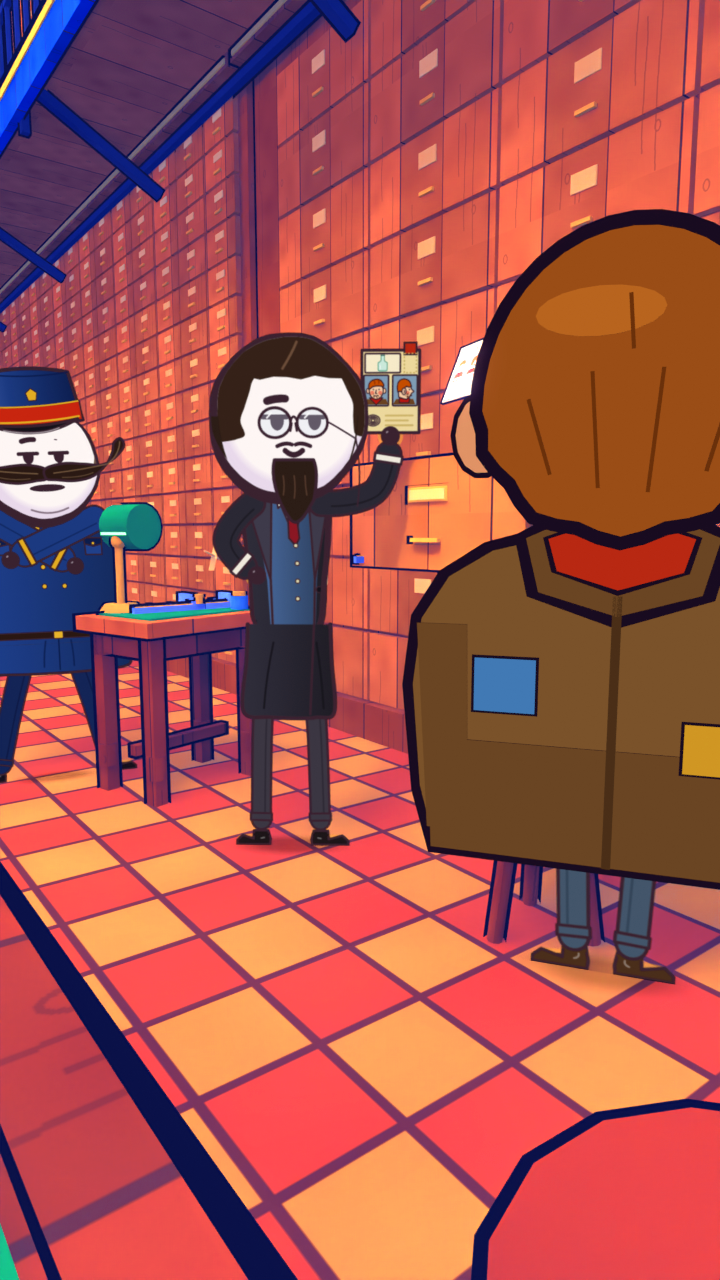
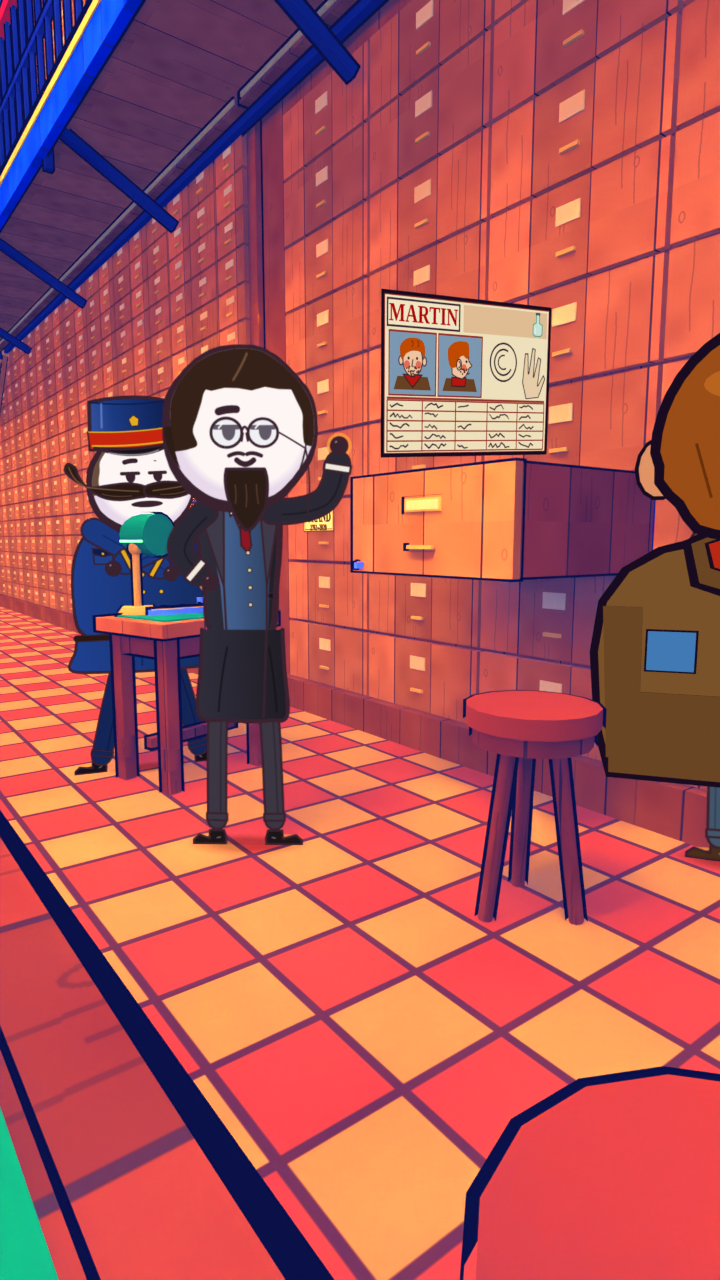
film17 v2 T6b: 6c/6d/P2 re-staging (readable MARTIN card, bottle, clear faces), key stills g1600/1606/1640/1685
Claude-Session: https://claude.ai/code/session_017iwyCu2DCAGX5bV8K2JYSR

diff --git a/film/v3/film17v2/T6b/t6b_stage.py b/film/v3/film17v2/T6b/t6b_stage.py
@@ -5,6 +5,7 @@ import math, sys, os
 import bpy
 from mathutils import Vector
 HERE = os.path.dirname(os.path.abspath(__file__)); sys.path.insert(0, os.path.join(HERE, '..', '..', 'set3d17'))
+for _p in ('stage', 'cast17'): sys.path.insert(0, os.path.join(HERE, '..', '..', _p))
 import prefecture17 as P
 
 INK = '#1a1020'
@@ -58,3 +59,151 @@ def _patched(a, c, cam):
     if c['name'] == 'dupont': return dupont_back(a, c, cam)
     return _orig(a, c, cam)
 P._back_cover = _patched
+
+def clear_cast():
+    """remove last frame's cast cards, back covers and T6b props (multi-frame loops in one process)"""
+    import actors
+    for a in list(actors.REGISTRY):
+        try:
+            for ch in list(a.root.children_recursive): bpy.data.objects.remove(ch, do_unlink=True)
+            bpy.data.objects.remove(a.root, do_unlink=True)
+        except Exception: pass
+    actors.clear_registry()
+    for o in [o for o in bpy.data.objects if o.name.startswith(('bk_', 'back_', 'cc_', 't6b_'))]: bpy.data.objects.remove(o, do_unlink=True)
+
+
+# ======================================================= 6c / 6d / P2 re-staging (director note: card reads, nothing crosses faces)
+from PIL import Image, ImageDraw, ImageFilter
+import cast17, numpy as np
+TEXD = os.path.join(HERE, 'tex'); os.makedirs(TEXD, exist_ok=True)
+# custom story poses: Bertillon holds NO sprite card (the 3D MARTIN card is held at his raised hand); the gendarme holds the empty bottle
+_b = dict(cast17.STORY17['bertillon_holding_card'][1]); _b.pop('prop_r', None); cast17.STORY17['bertillon_card_up'] = ('bertillon', _b)
+_g = dict(cast17.STORY17['gendarme_standing_a'][1]); _g.update(expr='determined', arm_r=dict(hand=(0.78, 0.30), bend=-0.5, stretch=1.1, layer='front'), arm_l='behind'); cast17.STORY17['gendarme_bottle_a'] = ('gendarme_a', _g)
+_g2 = dict(cast17.STORY17['gendarme_standing_b'][1]); _g2.update(expr='determined', arm_r=dict(hand=(0.78, 0.30), bend=-0.5, stretch=1.1, layer='front'), arm_l='behind'); cast17.STORY17['gendarme_bottle_b'] = ('gendarme_b', _g2)
+
+def _tex_front():
+    p = os.path.join(TEXD, 'martin_front.png')
+    if not os.path.exists(p):
+        im = Image.open(P.tex_hero_v2()).convert('RGB').transpose(Image.FLIP_LEFT_RIGHT)       # un-mirror (stored mirrored for card_plane)
+        d = ImageDraw.Draw(im); d.rectangle([0, 0, im.size[0] - 1, im.size[1] - 1], outline=(26, 16, 32), width=12); im.save(p)
+    return p
+def _tex_back():
+    p = os.path.join(TEXD, 'martin_back.png')
+    if not os.path.exists(p):
+        W, H = 768, 512; im = Image.new('RGB', (W, H), (232, 214, 170)); d = ImageDraw.Draw(im)
+        d.rectangle([0, 0, W - 1, H - 1], outline=(26, 16, 32), width=12); d.rectangle([40, 40, W - 41, H - 41], outline=(150, 120, 86), width=4)
+        for y in range(120, H - 80, 46): d.line([70, y, W - 70, y], fill=(190, 168, 126), width=3)
+        d.rectangle([W - 150, 0, W - 60, 46], fill=(176, 140, 96), outline=(26, 16, 32), width=6); im.save(p)       # the tab
+    return p
+def _tex_bottle():
+    p = os.path.join(TEXD, 'bottle.png')
+    if not os.path.exists(p):
+        W, H = 240, 640; im = Image.new('RGBA', (W, H), (0, 0, 0, 0)); d = ImageDraw.Draw(im); INKc = (26, 16, 32, 255)
+        body = [(50, 620), (50, 300), (80, 230), (96, 200), (96, 60), (144, 60), (144, 200), (160, 230), (190, 300), (190, 620)]
+        d.polygon(body, fill=(184, 222, 214, 255), outline=INKc); d.line(body + [body[0]], fill=INKc, width=10, joint='curve')
+        d.rectangle([90, 26, 150, 66], fill=(176, 120, 70, 255), outline=INKc, width=8)                                        # cork
+        d.polygon([(66, 590), (66, 320), (78, 300), (78, 590)], fill=(235, 250, 246, 255))                                    # highlight
+        d.polygon([(52, 560), (188, 560), (188, 618), (52, 618)], fill=(150, 196, 188, 255)); d.line([(50, 620), (190, 620)], fill=INKc, width=10)
+        im.save(p)
+    return p
+def _img_mat(name, path, backface_clear, alpha):
+    m = bpy.data.materials.new(name); m.use_nodes = True; nt = m.node_tree; nt.nodes.clear()
+    tx = nt.nodes.new('ShaderNodeTexImage'); tx.image = bpy.data.images.load(path, check_existing=True); tx.interpolation = 'Cubic'; tx.extension = 'CLIP'
+    em = nt.nodes.new('ShaderNodeEmission'); em.inputs[1].default_value = 0.95; nt.links.new(tx.outputs[0], em.inputs[0])
+    tr = nt.nodes.new('ShaderNodeBsdfTransparent'); mix = nt.nodes.new('ShaderNodeMixShader'); out = nt.nodes.new('ShaderNodeOutputMaterial')
+    fac = None
+    if backface_clear:
+        bf = nt.nodes.new('ShaderNodeNewGeometry'); fac = bf.outputs['Backfacing']
+    if alpha:
+        if fac is not None:
+            mx = nt.nodes.new('ShaderNodeMath'); mx.operation = 'MAXIMUM'; inv = nt.nodes.new('ShaderNodeMath'); inv.operation = 'SUBTRACT'; inv.inputs[0].default_value = 1.0
+            nt.links.new(tx.outputs[1], inv.inputs[1]); nt.links.new(inv.outputs[0], mx.inputs[0]); nt.links.new(fac, mx.inputs[1]); fac = mx.outputs[0]
+        else:
+            inv = nt.nodes.new('ShaderNodeMath'); inv.operation = 'SUBTRACT'; inv.inputs[0].default_value = 1.0; nt.links.new(tx.outputs[1], inv.inputs[1]); fac = inv.outputs[0]
+    if fac is not None: nt.links.new(fac, mix.inputs[0])
+    nt.links.new(em.outputs[0], mix.inputs[1]); nt.links.new(tr.outputs[0], mix.inputs[2]); nt.links.new(mix.outputs[0], out.inputs[0]); return m
+def _quad(name, c, ax, ay, hw, hh, mat, flipv=False):
+    V = [tuple(c - ax * hw - ay * hh), tuple(c + ax * hw - ay * hh), tuple(c + ax * hw + ay * hh), tuple(c - ax * hw + ay * hh)]
+    me = bpy.data.meshes.new(name); me.from_pydata(V, [], [(0, 1, 2, 3)]); me.update(); uv = me.uv_layers.new(name='UV')
+    for k, (u, v) in zip(range(4), ((0, 0), (1, 0), (1, 1), (0, 1))): uv.data[k].uv = (u, v)
+    me.materials.append(mat); ob = bpy.data.objects.new(name, me); bpy.context.scene.collection.objects.link(ob); ob.visible_shadow = False; return ob
+def _ss(u): u = max(0.0, min(1.0, u)); return u * u * (3 - 2 * u)
+
+def card_turn_angle(g):
+    """0 = the blank back faces the camera, 180 = MARTIN faces it. The turn runs g1594-1602 (edge-on at g1598, MARTIN almost face-on at the word, g1601; face-on from g1602)."""
+    return 180.0 * _ss((g - 1594) / 8.0)
+def head_frame(a, cam):
+    import actors
+    L2W = lambda xy: Vector(actors.local_to_world(a, xy, camera=cam)); o = L2W((0.0, 0.0)); return o, L2W((1.0, 0.0)) - o, L2W((0.0, 1.0)) - o
+def martin_card(a, g, cam, width_D=1.45, ctr=(1.50, -0.34), back_off=0.0, t=0.25):
+    """the held MARTIN card: a screen-facing plane beside Bertillon's head (head-local units, 1 = head diameter), 4 cm BEHIND his card plane so his raised hand
+    stays in front. phi 0 = blank back toward the camera, 180 = MARTIN. Two coplanar quads, each hidden from behind (Backfacing)."""
+    o, ex, ey = head_frame(a, cam); n = (Vector(cam.location) - o).normalized(); dsx = ex.length; dsy = ey.length
+    right = Vector(cam.matrix_world.to_3x3() @ Vector((1, 0, 0))).normalized(); up = Vector((0, 0, 1))
+    D = dsx; c = o + right * (ctr[0] * D) + (-up) * (ctr[1] * D) - n * back_off; cl = Vector(cam.location); c = cl + (c - cl) * (1 - t); hw = (1 - t) * width_D * D / 2; hh = hw * 512 / 768   # t: toward the camera along the view ray (in front of the drawer box, same screen size)
+    phi = math.radians(card_turn_angle(g)); axp = right * math.cos(phi) + n * math.sin(phi)
+    cm = _img_mat('t6b_mback', _tex_back(), True, False); fm = _img_mat('t6b_mfront', _tex_front(), True, False)
+    n1 = axp.cross(up).normalized(); _quad('t6b_card_back', c, axp, up, hw, hh, cm); _quad('t6b_card_front', c - n1 * 0.004 * (1 - t) , -axp, up, hw, hh, fm)   # 4 mm apart: no z-fight between the two coplanar quads
+    return c, hw
+def bottle_prop(a, cam, ctr=(0.95, 0.10), h_D=1.15, back_off=0.04):
+    o, ex, ey = head_frame(a, cam); n = (Vector(cam.location) - o).normalized(); D = ex.length
+    right = Vector(cam.matrix_world.to_3x3() @ Vector((1, 0, 0))).normalized(); up = Vector((0, 0, 1))
+    c = o + right * (ctr[0] * D) + (-up) * (ctr[1] * D) - n * back_off; hh = h_D * D / 2; hw = hh * 240 / 640
+    _quad('t6b_bottle', c, right, up, hw, hh, _img_mat('t6b_mbottle', _tex_bottle(), False, True)); return c
+
+# per-frame offsets (world metres, eased): w is 0 while the camera is in the P1 close-up, ramps in g1546-1560, holds, and is released at the cut
+def _w(g): return _ss((g - 1548) / 26.0)
+STAGE = dict(bert=(0.62, 0.0), dup=(-0.90, 0.0), insp=(-0.30, 0.22))
+GEND_END = tuple(float(x) for x in os.environ.get('GEND', '0.55,-0.85').split(','))   # world offset of gend_a from his planned spot (13.95, 28.2) at the end of his walk-in
+WALK0, WALK1 = 1616, 1617                                       # he walks in from the right edge (out of frame all through 6c), 0.5 m, then stands
+def _gend_off(g):
+    u = _ss((g - WALK0) / float(WALK1 - WALK0)); return GEND_END[0] * u, GEND_END[1] * u, u
+def _gend_hand(g):
+    """the hand of the gendarme pulling the empty bottle from his cape (g1640-1656): belt -> raised beside the card (head-local units, negative x = frame-left)"""
+    u = _ss((g - 1640) / 16.0); return (-0.30 - 0.50 * u, 0.95 - 0.65 * u), u
+def _stage_at(g, who):
+    d = STAGE[who]
+    if who == 'dup' and g >= 1616: d = (float(os.environ.get('DUP6', '-0.60')), 0.0)          # he turns round at g1616 (back view -> front): the step hides in the turn
+    if who == 'bert' and g >= 1650: d = (d[0] + 0.50 * _ss((g - 1650) / 30.0), d[1])   # P2: he steps 0.5 m toward the inspector (behind the foreground desk in 6d) so the camera pass does not cut his raised arm at the frame edge
+    if who == 'insp' and g >= 1655: k = 1.0 - _ss((g - 1655) / 16.0); d = (d[0] * k, d[1] * k)   # P2 centres on the inspector's own mark: ease his 6c offset away in 6d, off the viewer's eye line
+    return d
+def assign_for(g):
+    w = _w(g); f = lambda who: {'dx': _stage_at(g, who)[0] * w, 'dy': _stage_at(g, who)[1] * w}
+    sw = dict(cast17.STORY17['dupont_caught'][1]); sw.update(sweat=1.0, fx=['sweat']); cast17.STORY17['dupont_caught_sweat'] = ('dupont', sw)
+    gd = dict(cast17.STORY17['gendarme_standing_a'][1]); h, u = _gend_hand(g); ox, oy, wu = _gend_off(g)
+    if False:                                      # foot-locked walk: phase advances with the distance walked (stride 0.72 m)
+        dist = math.hypot(ox, oy); gd = cast17.cycle('gendarme_a', (dist / (2 * 0.72)) % 1.0, 'walk', facing=-1, base=gd, arms='none')
+    elif g >= 1640: gd.update(expr='determined', arm_r=dict(hand=h, bend=-0.5 * u, stretch=1.0 + 0.1 * u, layer='front'), arm_l='behind')
+    cast17.STORY17['gend_dyn'] = ('gendarme_a', gd)
+    gopt = {'dx': ox, 'dy': oy}
+    dup = 'dupont_sweating' if g < 1616 else 'dupont_caught_sweat'
+    if g >= 1671: return {'inspector': ('inspector_shocked', f('insp')), 'bertillon': ('bertillon_card_up', f('bert')), 'dupont': ('dupont_caught_sweat', f('dup')), 'gend_a': ('gend_dyn', gopt), 'gend_b': ('gendarme_standing_b', {})}
+    return {'bertillon': ('bertillon_card_up', f('bert')), 'dupont': (dup, f('dup')), 'inspector': ('inspector_arms_crossed', f('insp')), 'gend_a': ('gend_dyn', gopt), 'gend_b': ('gendarme_standing_b', {})}
+def stage_props(g, acts, cam):
+    """call after stage_cast2: Bertillon's MARTIN card (+ bottle later)"""
+    hide_hero_card(g)
+    if 'bertillon' in acts and g >= 1560: martin_card(acts['bertillon'], g, cam)
+    if 'gend_a' in acts and g >= 1646:
+        h, u = _gend_hand(g); bottle_prop(acts['gend_a'], cam, ctr=(h[0] - 0.02, h[1] - 0.42), h_D=1.0)
+
+def hide_hero_card(g):
+    """from g1546 (right after T6a's P1) the lifted 3D hero card in the drawer box is gone: Bertillon holds the MARTIN card in his hand instead"""
+    r = P.K.STATE['anim']['hero']['root']
+    for o in [r] + list(r.children_recursive): o.hide_render = g >= 1546
+
+def apply_cam():
+    """P2 (g1695 hold): pull the push-in back so the inspector's head is <= 35 % of the frame height (the plan's 1.05 m was ~50 %); same look-at, camera 1.5x farther."""
+    for k in P.TAKES['T6']['keys']:
+        if k['g'] in (1695, 1701):
+            lk = np.array(k['look']); lc = np.array(k['loc']); k['loc'] = tuple(lk + 1.5 * (lc - lk))
+        if k['g'] in (1640, 1671): k['lens'] = float(os.environ.get('LENS6D', '16'))      # 6d three-shot: wider, so Bertillon + card, Dupont and the gendarme fit with margins
+apply_cam()
+
+_orig_face = P.cast_face
+def _face(take, c, g):
+    """gend_a walks into the 6d shot: face the camera (his planned facing is edge-on to it)"""
+    if take == 'T6' and c['name'] == 'gend_a' and g >= WALK0:
+        cam = bpy.context.scene.camera; p = P.cast_pos(c, g); ox, oy, _ = _gend_off(g); p = (p[0] + ox, p[1] + oy)
+        return math.degrees(math.atan2(cam.location[1] - p[1], cam.location[0] - p[0]))
+    return _orig_face(take, c, g)
+P.cast_face = _face

diff --git a/film/v3/film17v2/T6b/render_t6b.py b/film/v3/film17v2/T6b/render_t6b.py
@@ -1,0 +1,19 @@
+"""T6b render: python3 render_t6b.py <out_dir> <g0> <g1> [step] [samples] [W H]   (resume: skips g_NNNN.png > 50 kB)
+Recipe (WORKER17V2 / API.md v2): world_build('T6') + key_take + stage_cast2 (via t6b_stage.assign_for) every frame + 16 samples + OIDN, 2 threads, grade2.
+T6b staging (t6b_stage.py): Dupont back view = hair + coat, MARTIN card held beside Bertillon's head (turn g1594-1602), the bottle in the gendarme's hand,
+6d lens 16 mm, P2 camera pulled back (head <= 35 % H), T6 lights up (TAKE_OVER, lights only)."""
+import sys, os, time
+HERE = os.path.dirname(os.path.abspath(__file__)); sys.path.insert(0, HERE)
+import t6b_stage, prefecture17 as P, bpy
+P.TAKE_OVER['T6']['archive'].update({"shade_mul": 1.4, "fill_w": 600, "gain": 1.15})
+out = sys.argv[1]; g0 = int(sys.argv[2]); g1 = int(sys.argv[3]); step = int(sys.argv[4]) if len(sys.argv) > 4 else 1
+samples = int(sys.argv[5]) if len(sys.argv) > 5 else 16; res = (int(sys.argv[6]), int(sys.argv[7])) if len(sys.argv) > 7 else (720, 1280)
+os.makedirs(out, exist_ok=True)
+todo = [g for g in range(g0, g1 + 1, step) if not (os.path.exists('%s/g_%04d.png' % (out, g)) and os.path.getsize('%s/g_%04d.png' % (out, g)) > 50000)]
+if not todo: print('nothing to do'); sys.exit(0)
+A = P.world_build('T6'); P.key_take('T6'); P.setup_render2(res, samples=samples, threads=2)
+for g in todo:
+    t = time.time(); t6b_stage.clear_cast(); asg = t6b_stage.assign_for(g)
+    P.shot('T6', g, A, cards=False); acts = P.stage_cast2('T6', g, asg); t6b_stage.stage_props(g, acts, bpy.context.scene.camera)
+    bpy.context.scene.render.filepath = '%s/g_%04d.png' % (out, g); bpy.ops.render.render(write_still=True); P.grade2(bpy.context.scene.render.filepath)
+    print('g%d %.1fs' % (g, time.time() - t), flush=True)
